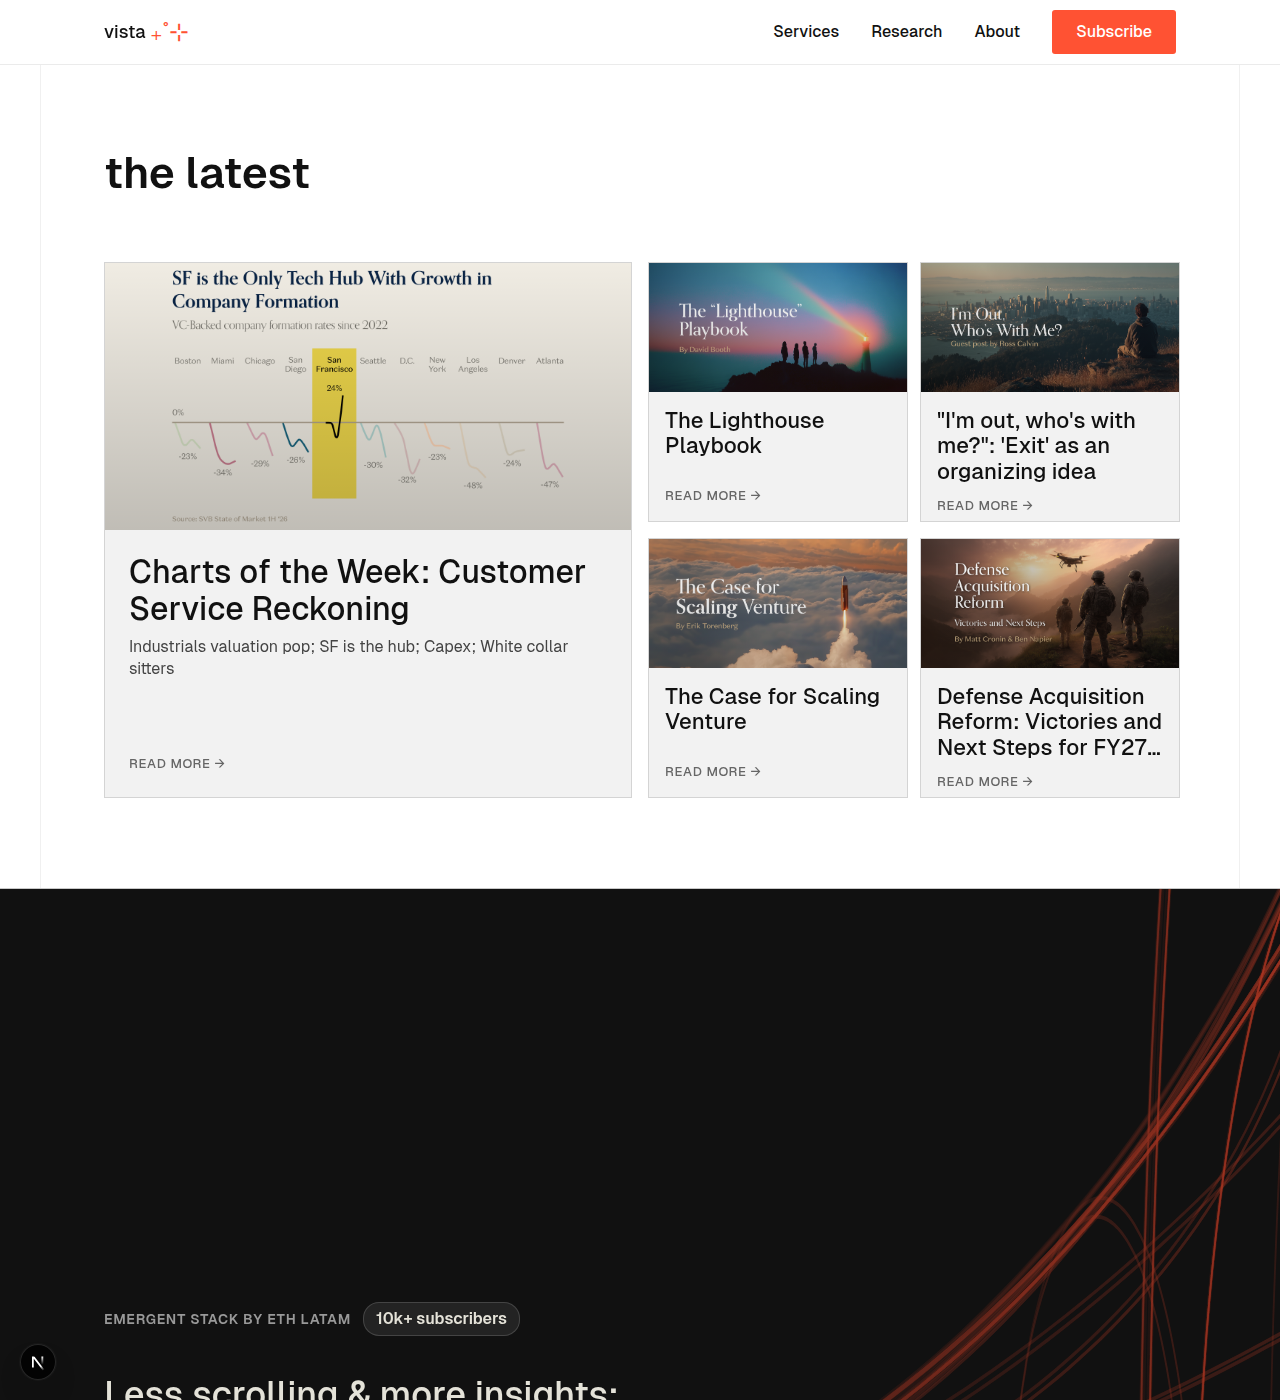
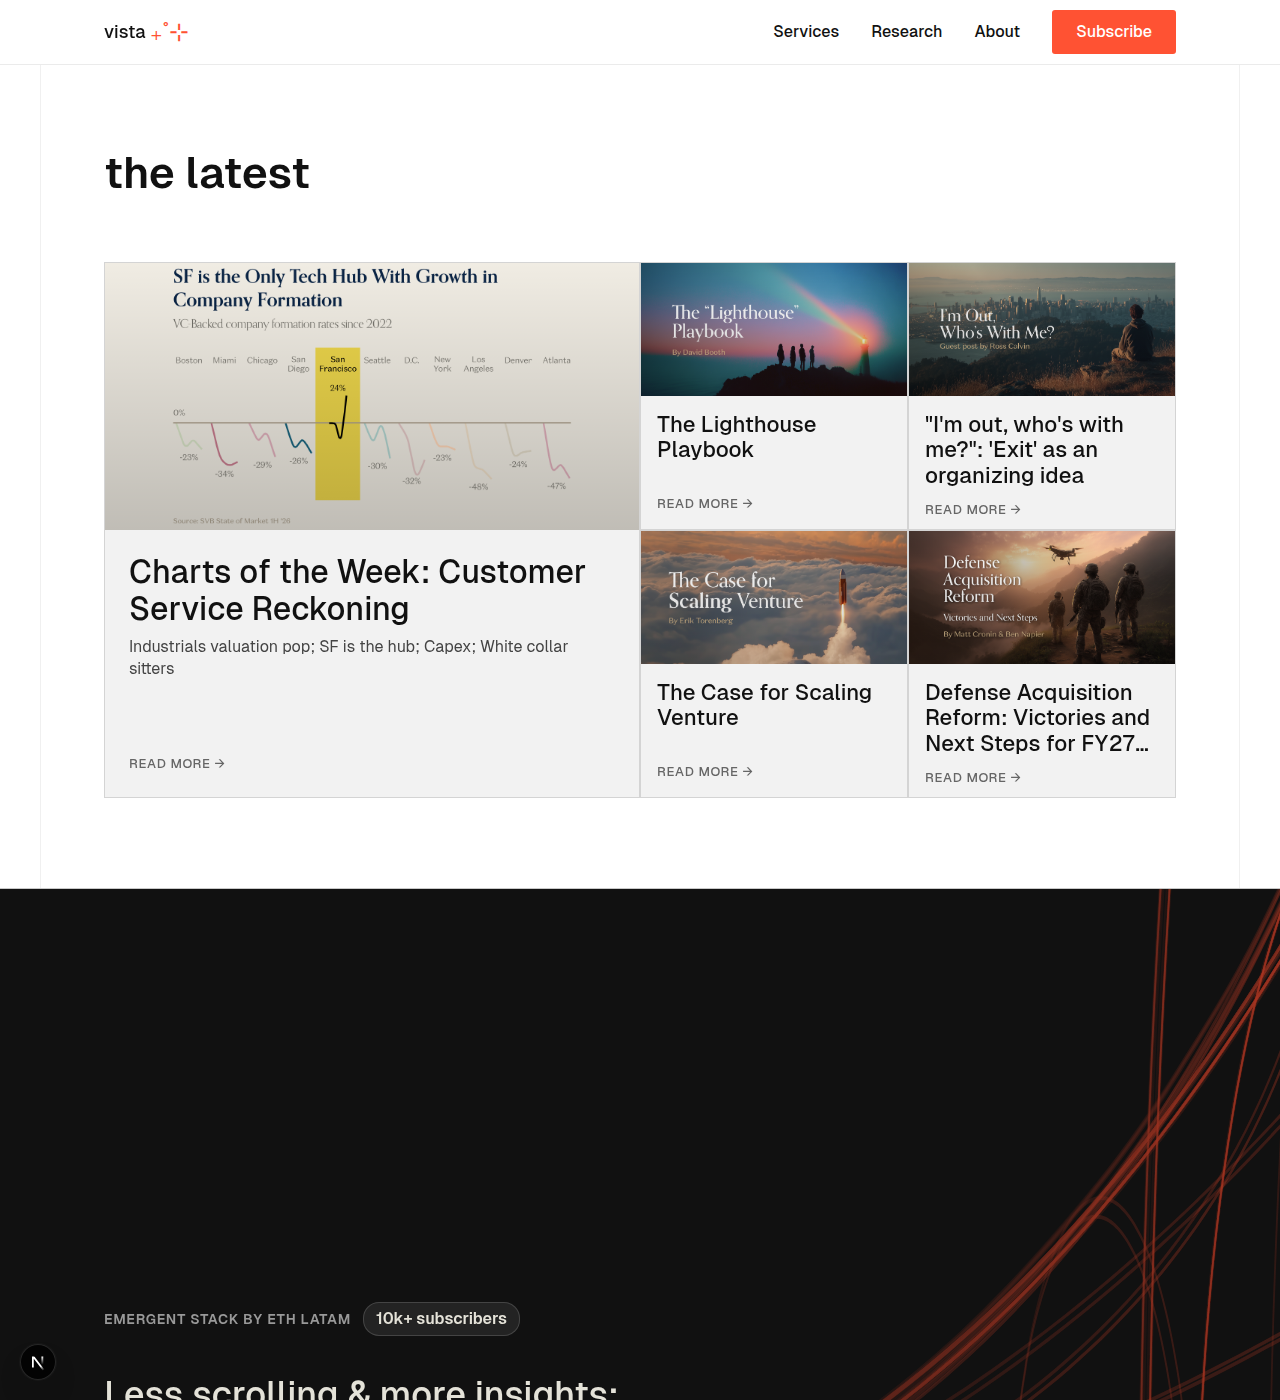
style(cards): make borders thinner (0.12 → 0.08 opacity)

Changed region(s): [[0.4688, 0.1843, 0.9375, 0.5836], [0.125, 0.1843, 0.375, 0.3686], [0.4062, 0.3071, 0.4375, 0.3379]]

diff --git a/src/components/landing2/LatestSection.tsx b/src/components/landing2/LatestSection.tsx
@@ -59,7 +59,7 @@ function ArticleCard({ article, isLarge = false }: { article: Article; isLarge?:
       href={article.link}
       target="_blank"
       rel="noopener noreferrer"
-      className={`group block bg-[#F2F2F2] hover:bg-[#E8E8E8] transition-colors duration-200 h-full ${isLarge ? '' : 'aspect-square'} border border-black/[0.12]`}
+      className={`group block bg-[#F2F2F2] hover:bg-[#E8E8E8] transition-colors duration-200 h-full ${isLarge ? '' : 'aspect-square'} border border-black/[0.08]`}
     >
       <article className="h-full flex flex-col">
         {/* Image - 50% height */}
